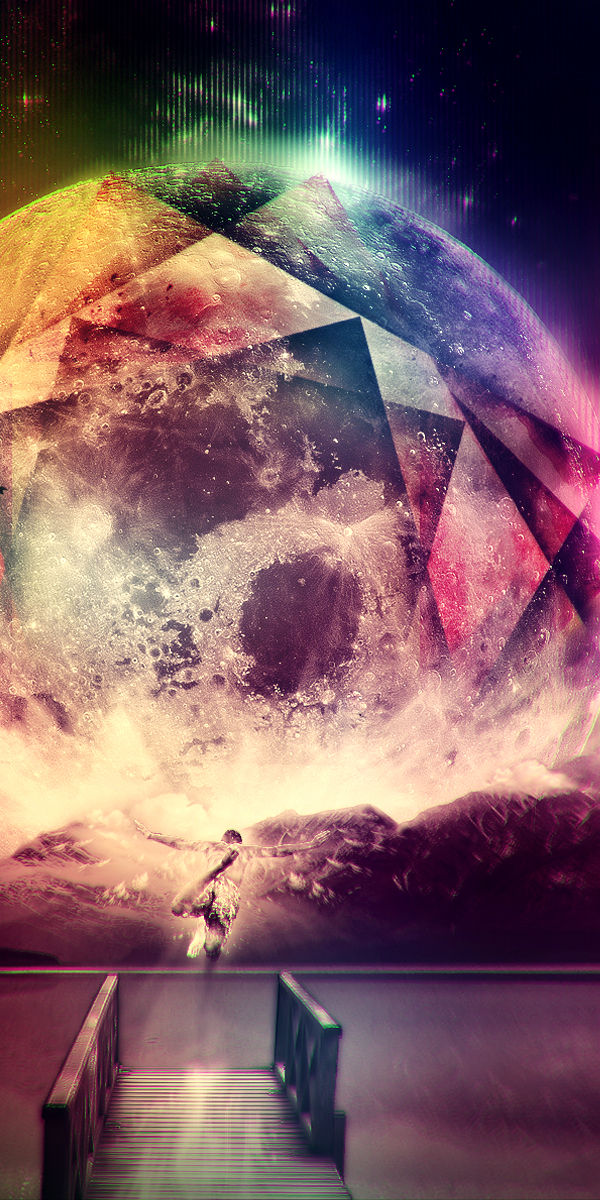
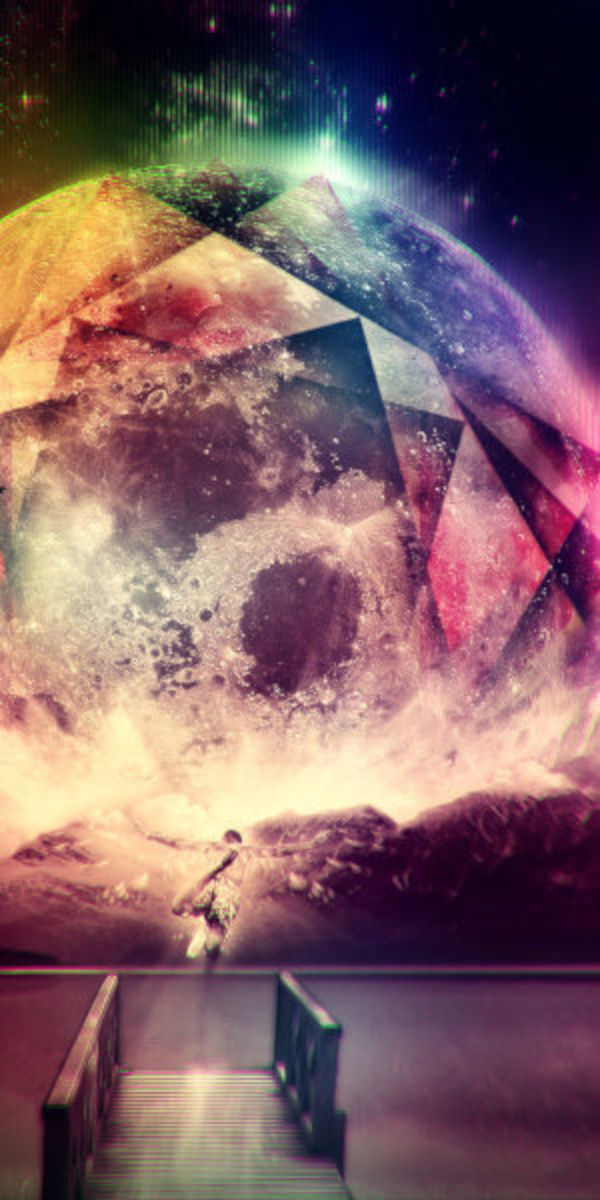
final

diff --git a/estilo.css b/estilo.css
@@ -8,15 +8,15 @@ body{
         display: flex;
         align-items: center;
         justify-content: center !important;
-        margin: auto ;
+        margin: auto;
         padding-top: 2%;
 
         width: 1200px;
         height: 800px;
     }
     img{
-        width: 100%;
-        height: 100%;
+        width: 80vw;
+        height: 80vh;
     }
 }
 
@@ -26,13 +26,14 @@ body{
         align-items: center;
         justify-content: center !important;
         margin: auto;
+        padding-top: 2%;
 
         width: 600px;
         height: 900px;
     }
     img{
-        width: 100%;
-        height: 100%;
+        width: 80vw;
+        height: 80vh;
     }
 }
 
